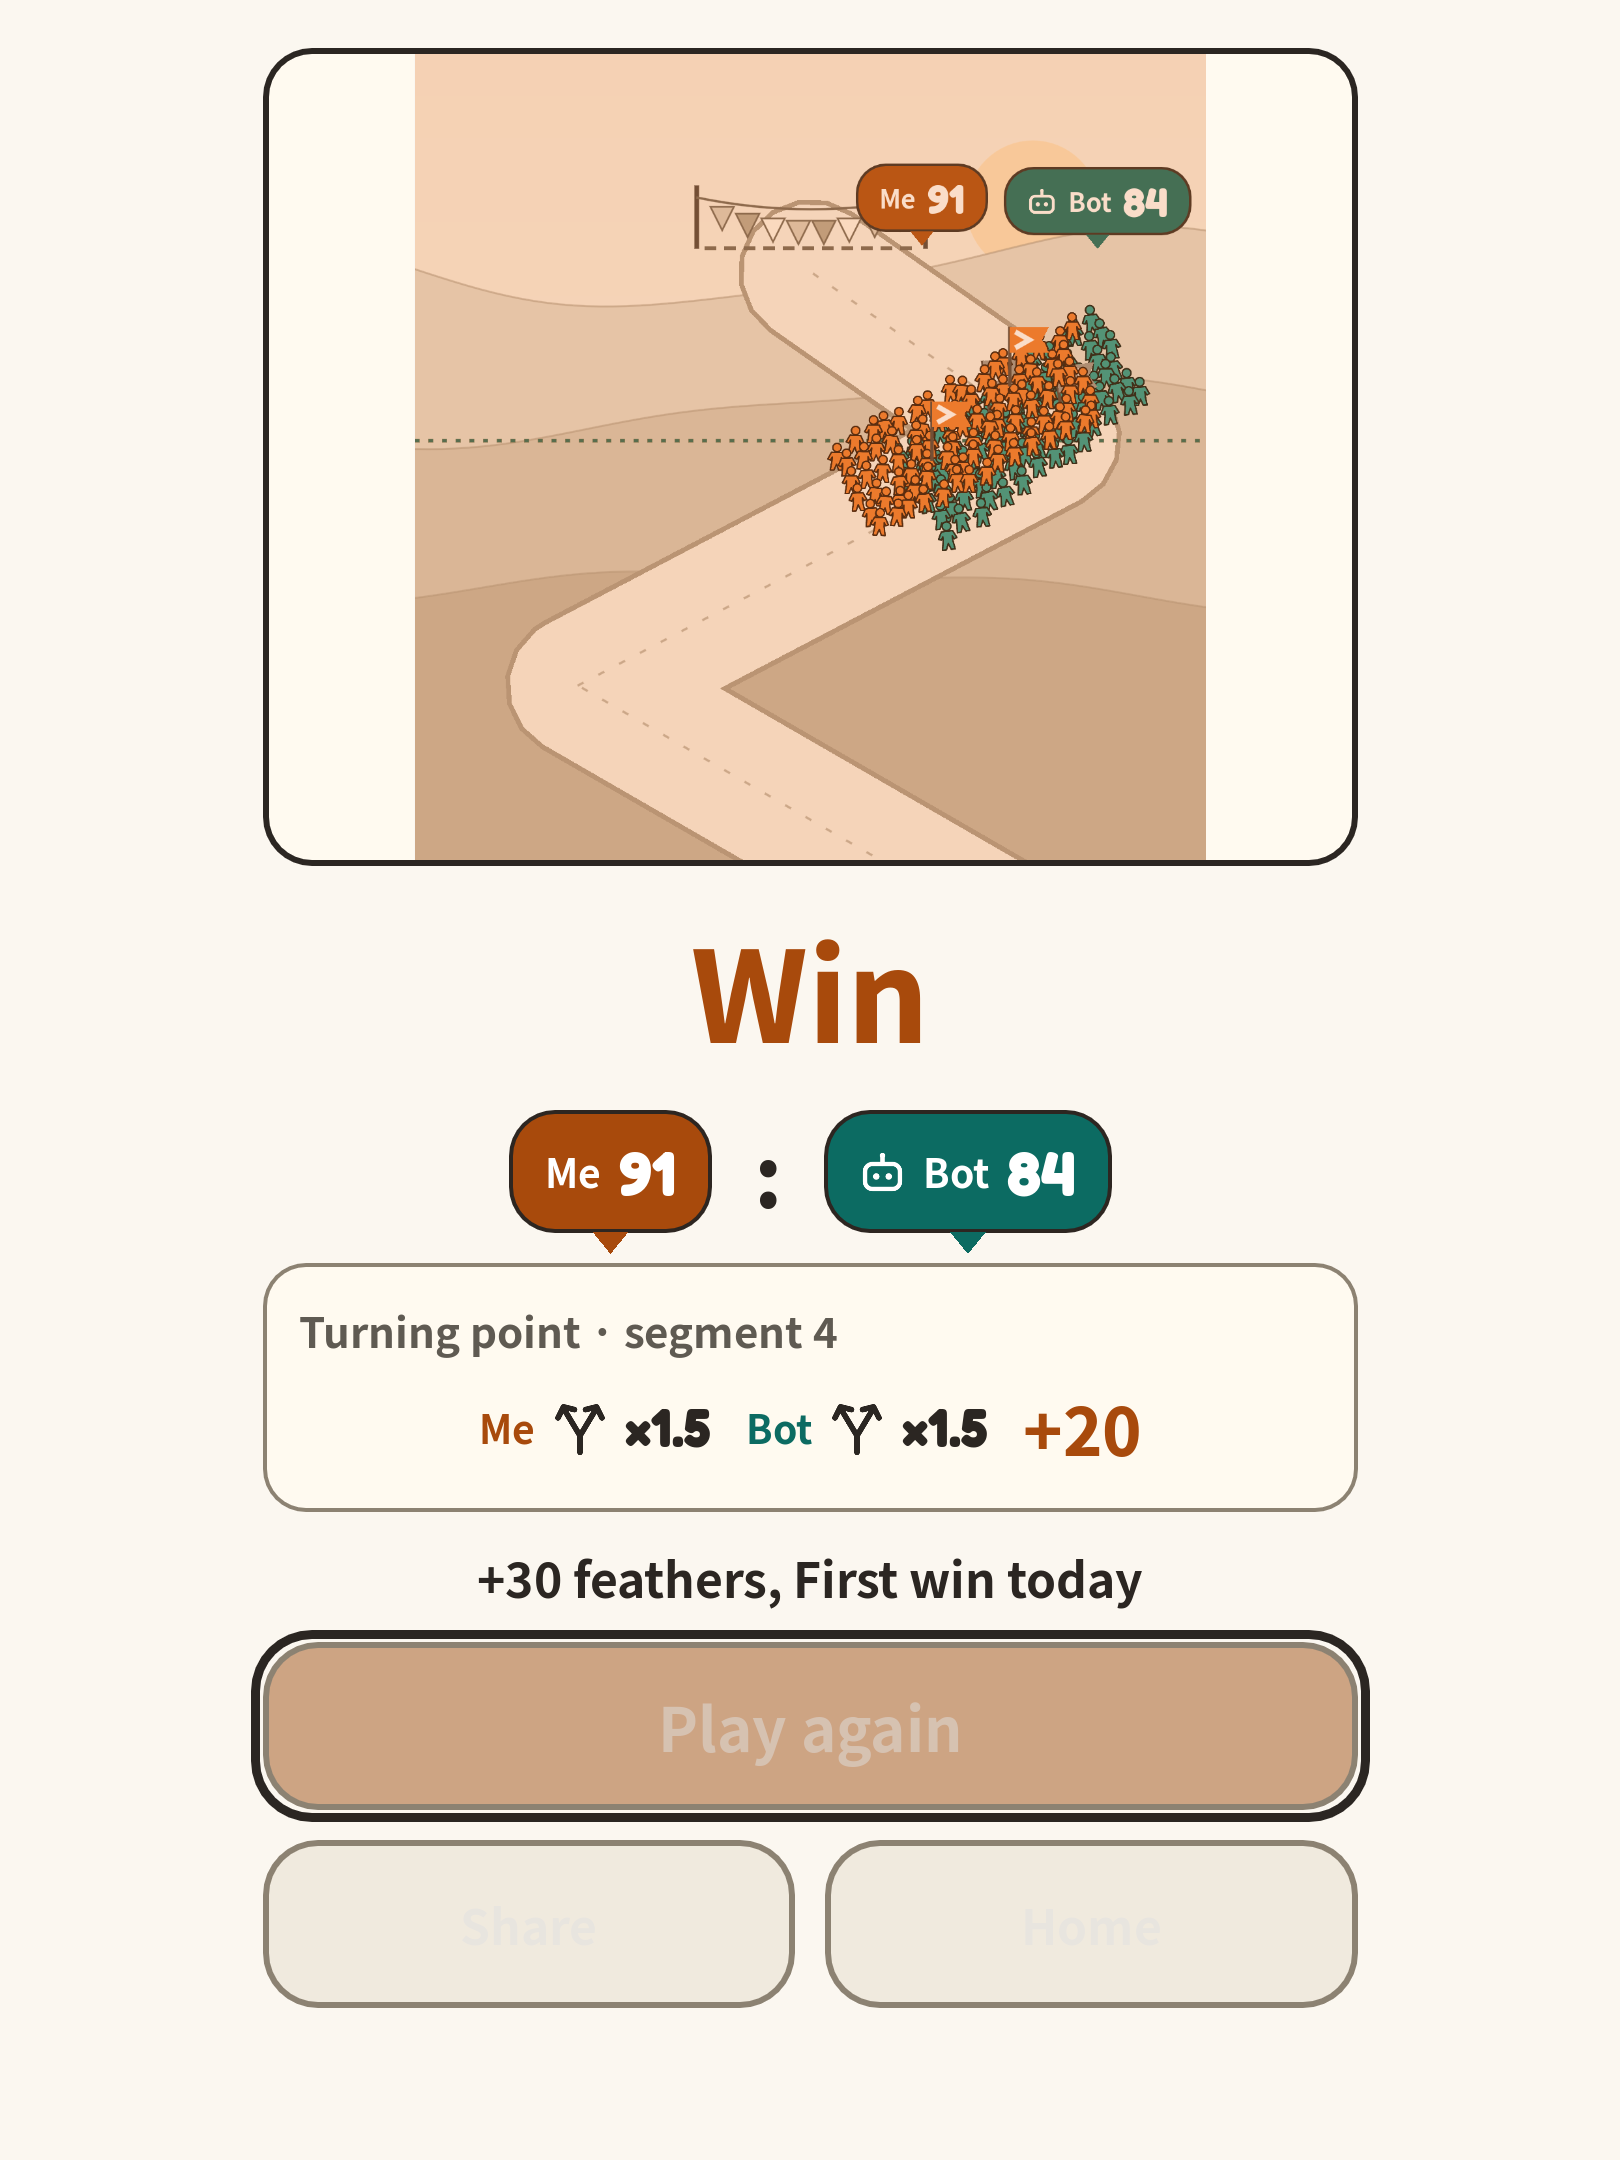
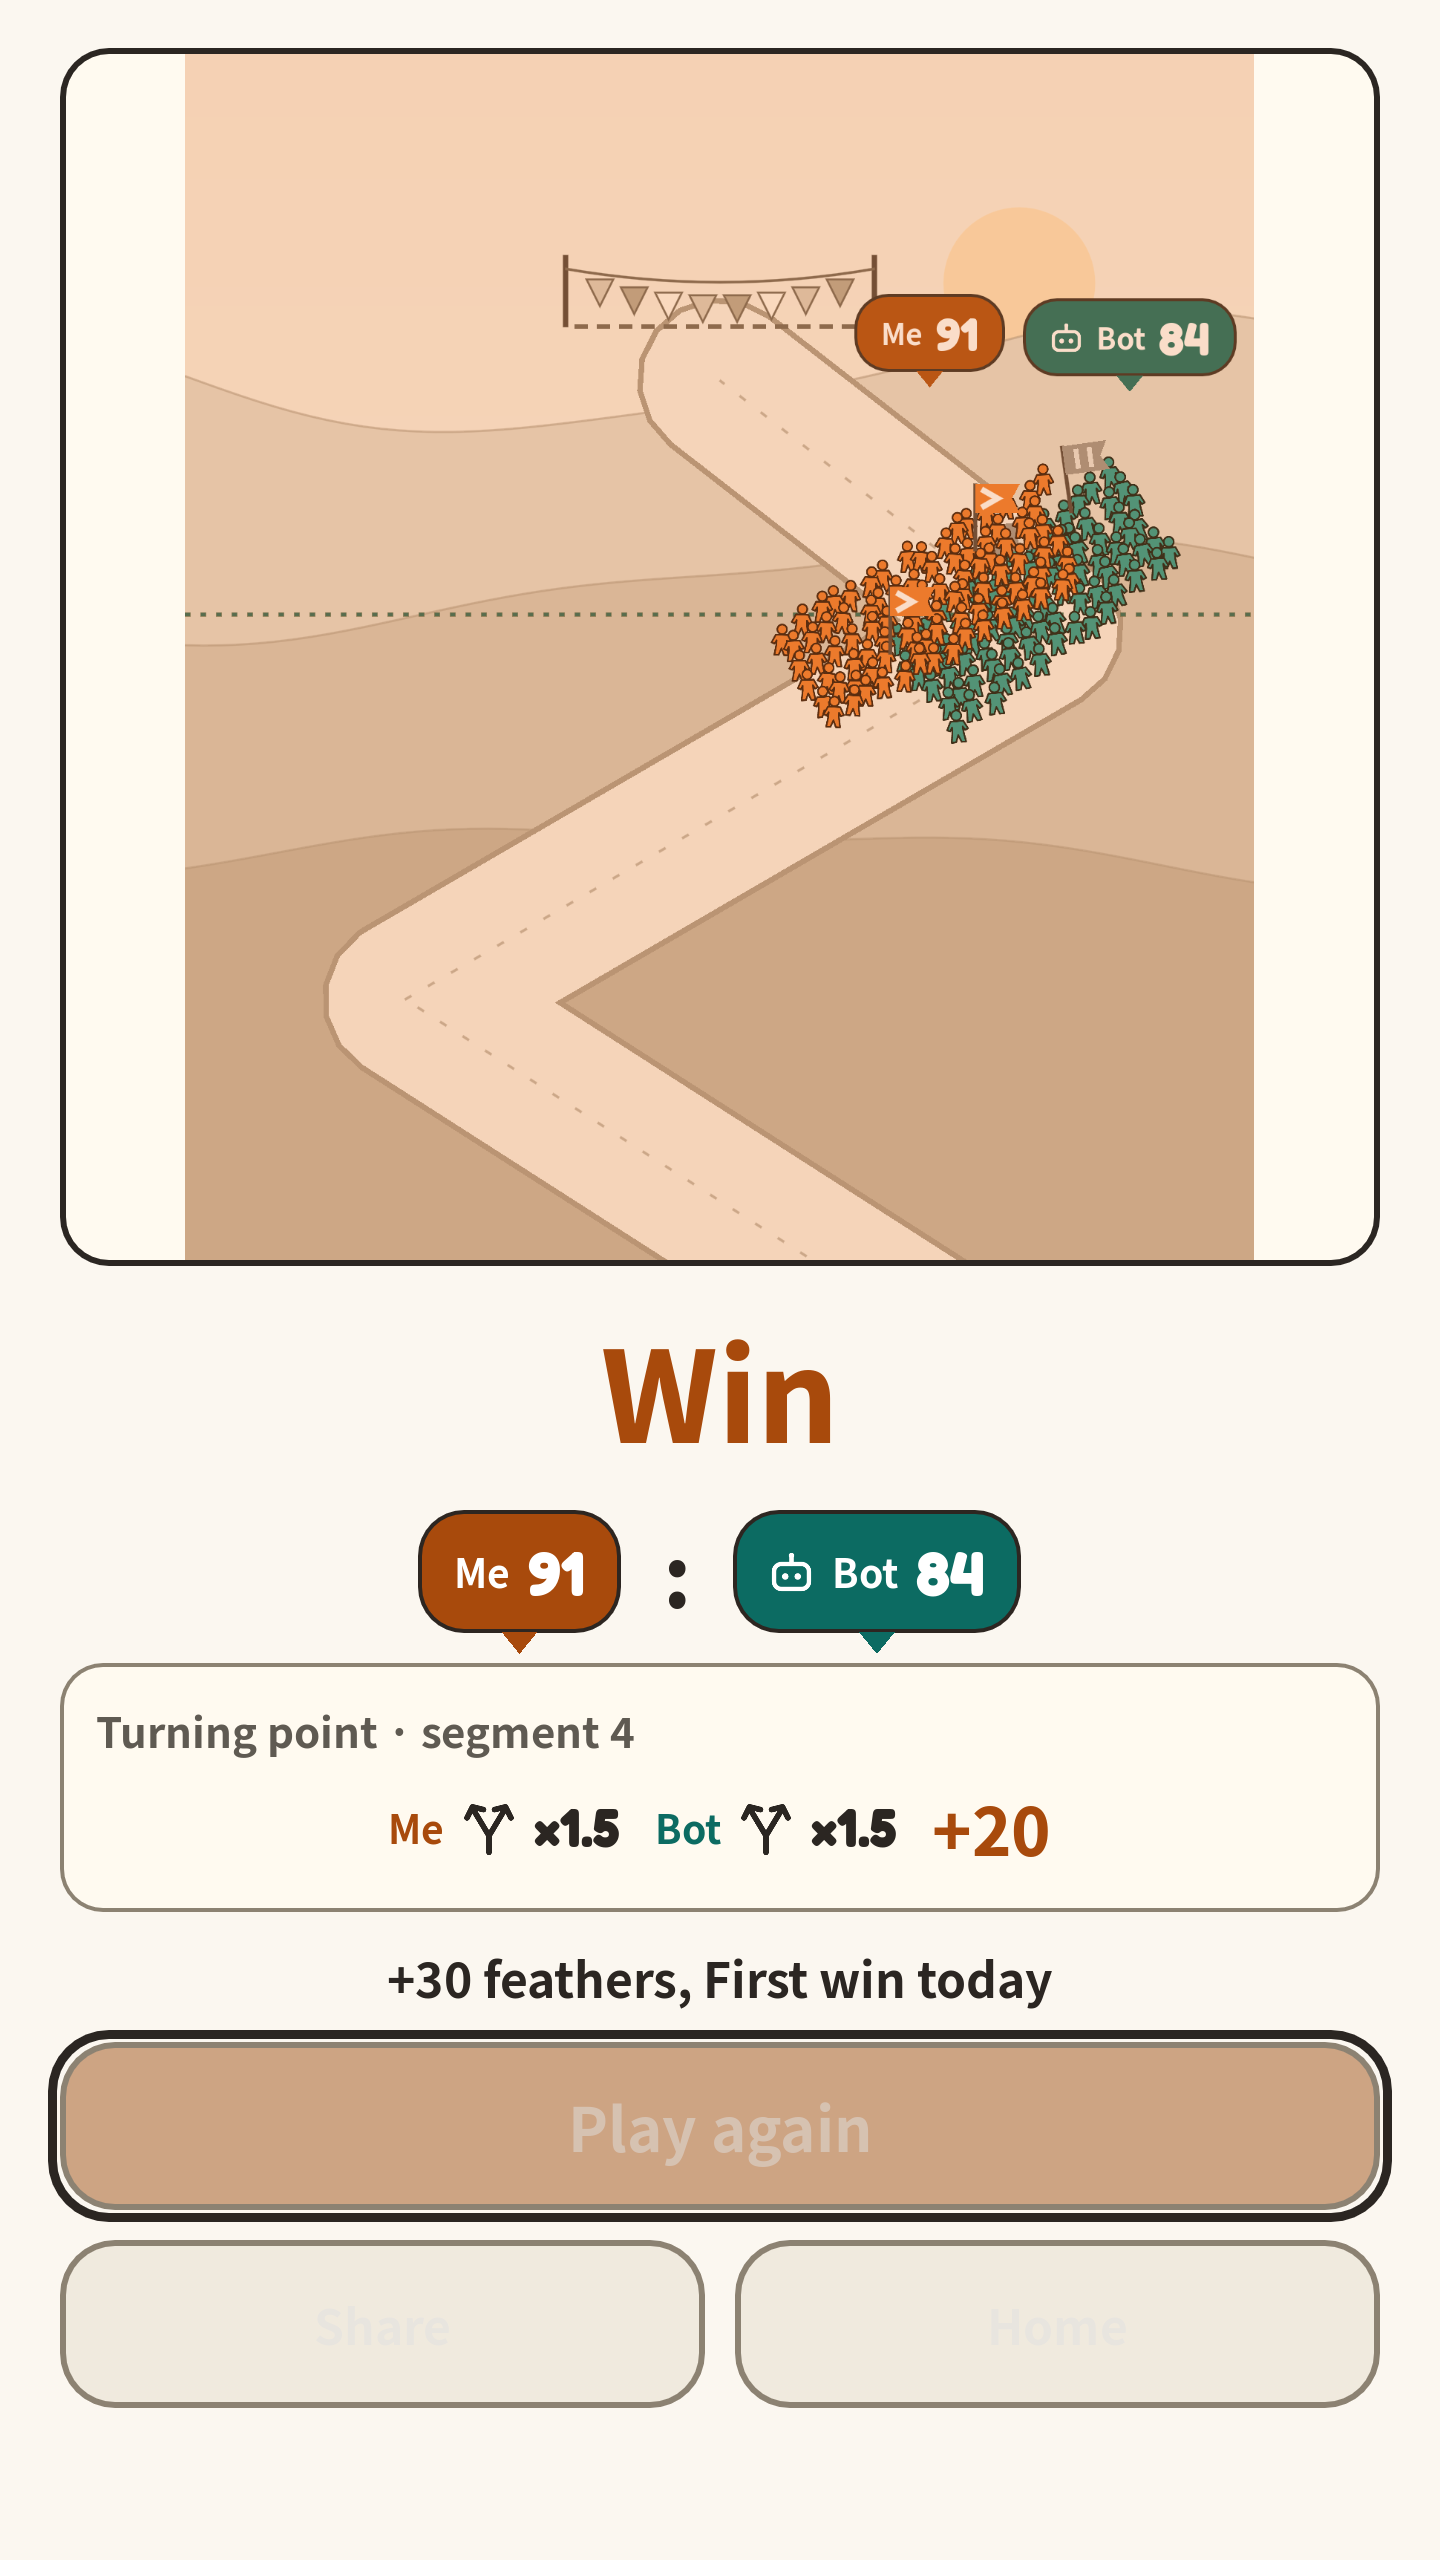
스토어 태블릿 이미지를 실제 세로 화면 규격으로 맞춤

diff --git a/scripts/make_store_assets.py b/scripts/make_store_assets.py
@@ -26,7 +26,7 @@ for lang in ['en','ko']:
   items.append({'id':f'{lang}-{name}','kind':'screenshot','path':path,'width':1080,'height':1920,'source':f'build/listing/{lang}/{file}'})
 for kind in ['tablet-7','tablet-10']:
  for i,file in enumerate(['normal-bot-and-restore--04-home.png','normal-bot-and-restore--normal-gate-3.png','normal-bot-and-restore--05-normal-result.png','cosmetics-settings-and-replay--06-cosmetics.png'],1):
-  items.append({'id':f'{kind}-{i}','kind':'screenshot','path':f'screenshots/{kind}/{i:02}.png','width':1620,'height':2160,'source':f'build/layout-self/tablet/{file}'})
+  items.append({'id':f'{kind}-{i}','kind':'screenshot','path':f'screenshots/{kind}/{i:02}.png','width':1440,'height':2560,'source':f'build/listing/tablet/{file}'})
 manifest={'out_dir':'play-store','background':'#fbf7f0','brand':'Crowd Gate Duel existing native art and real rendered runtime screenshots. No generated gameplay.', 'items':items,'rules':[{'kind':'screenshot','min':3}]}
 (root/'play-store/assets-manifest.json').write_text(json.dumps(manifest,ensure_ascii=False,indent=2)+'\n')
 p=root/'play-store/google-play.config.json';cfg=json.loads(p.read_text());cfg['assets']['sevenInchTabletScreenshots']=[f'play-store/screenshots/tablet-7/{i:02}.png' for i in range(1,5)];cfg['assets']['tenInchTabletScreenshots']=[f'play-store/screenshots/tablet-10/{i:02}.png' for i in range(1,5)];p.write_text(json.dumps(cfg,ensure_ascii=False,indent=2)+'\n')
